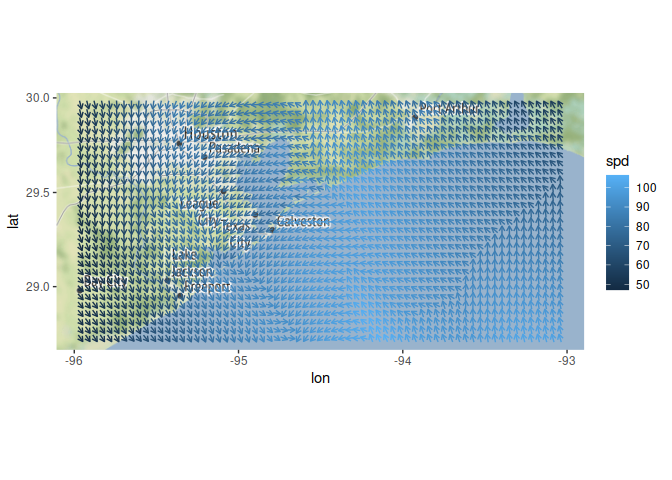
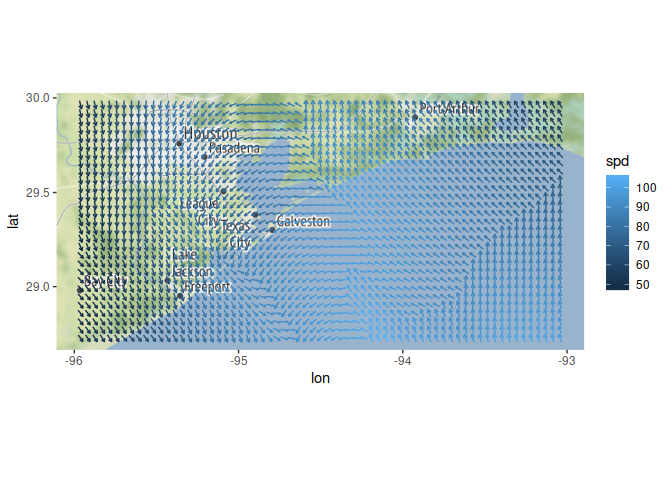
version 0.3.2

Changed region(s): [[0.125, 0.2188, 0.8438, 0.7188], [0.6562, 0.6875, 0.6875, 0.7188]]

diff --git a/NEWS.md b/NEWS.md
@@ -1,3 +1,7 @@
+# ggquiver 0.3.2
+* Improve usage of plot coordinate system when scaling arrow size (#9).
+* Fixed angle of line when centered arrows are used.
+
 # ggquiver 0.3.1 (25 November 2021)
 * Fixed issue with plotting resized vectors using the `vecsize` option (#8).
 
